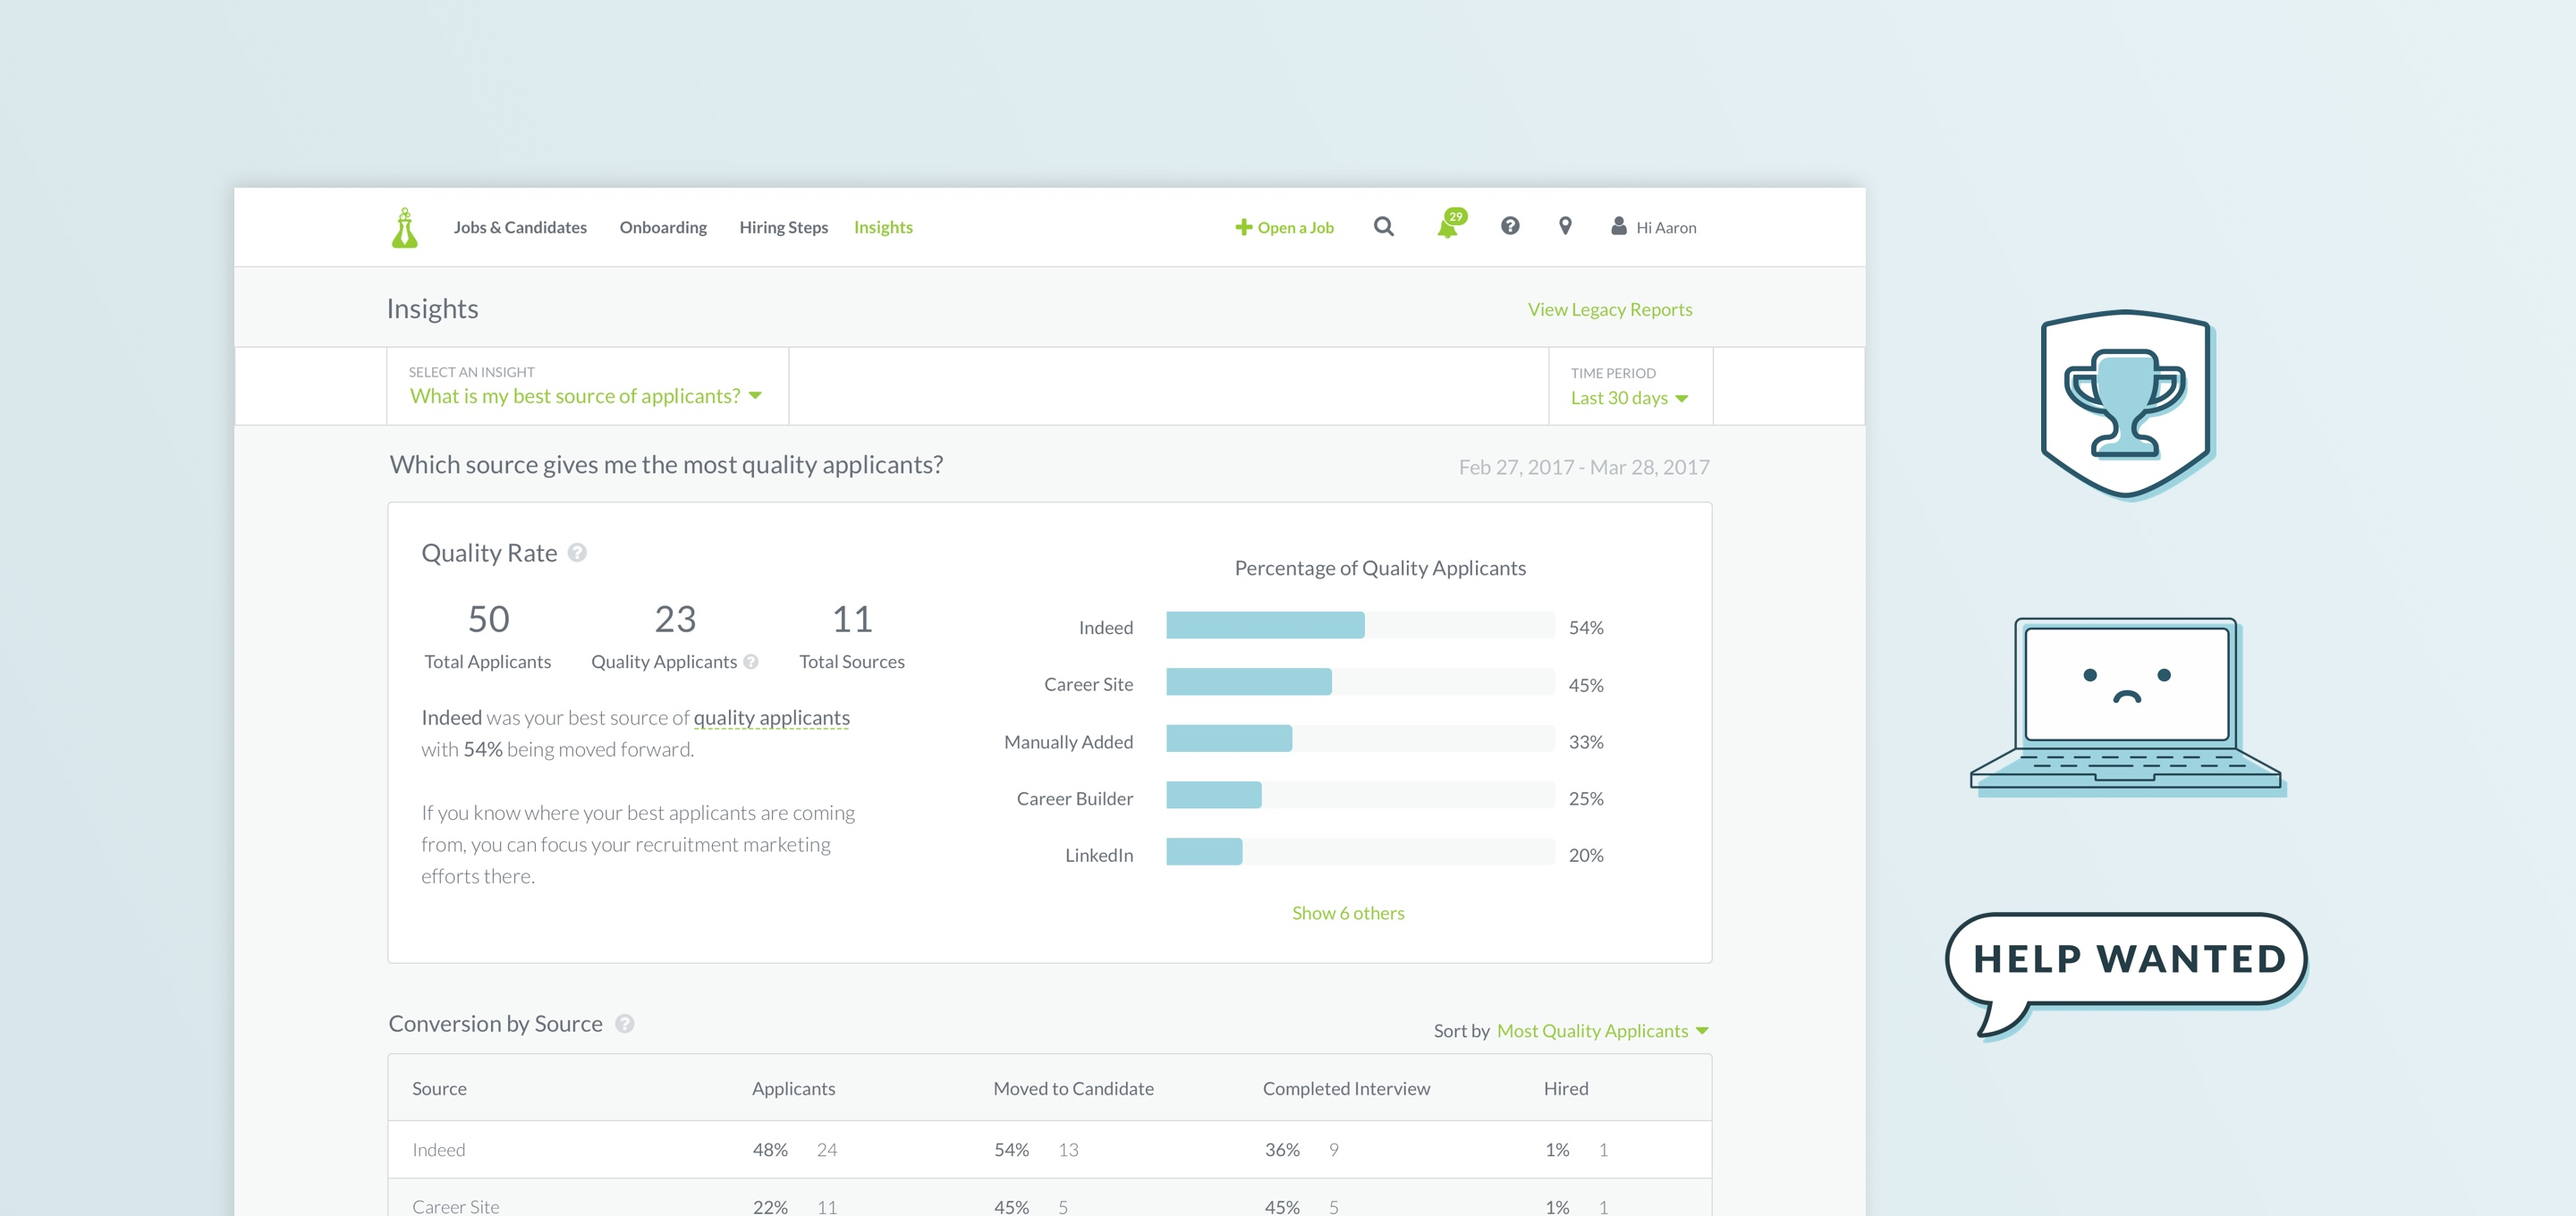
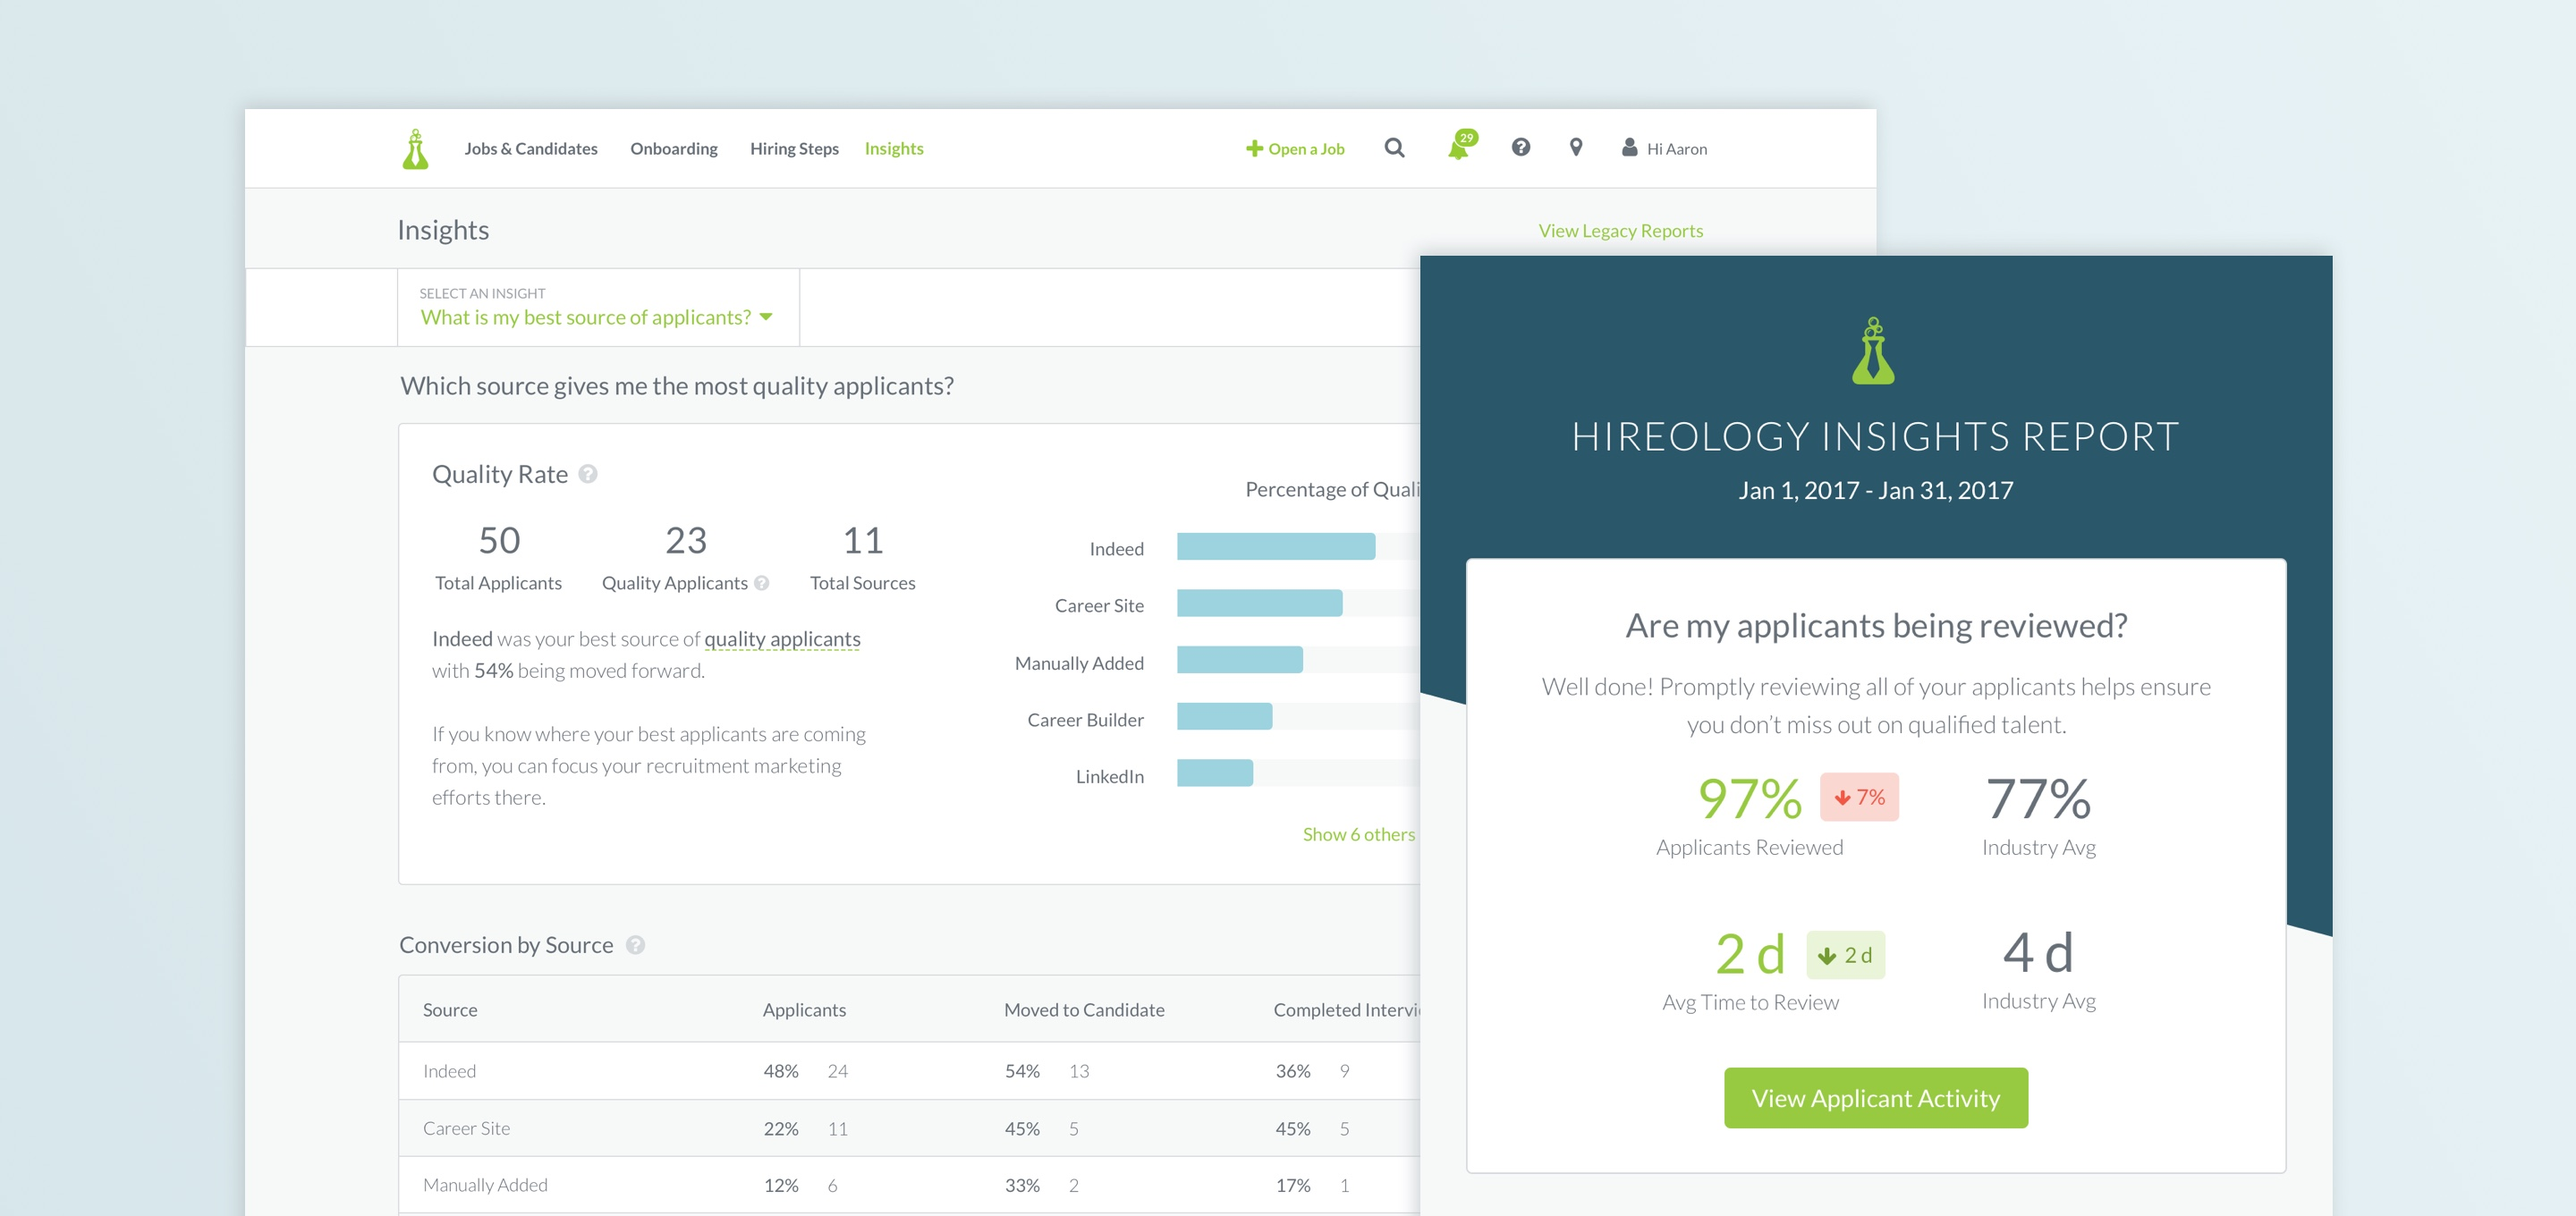
removing links temporarily

diff --git a/_layouts/home.html b/_layouts/home.html
@@ -46,7 +46,7 @@ layout: default
 
     <div class="project" data-aos="fade-up" data-aos-duration="1000" data-aos-easing="ease-out-quad">
 
-      <a href="{{ site.baseurl }}{% link work/hireology/index.html %}">
+      <!--<a href="{{ site.baseurl }}{% link work/hireology/index.html %}">-->
       
         <figure class="project-img">
           
@@ -62,14 +62,14 @@ layout: default
 
         </figure>
 
-      </a>
+      <!--</a>-->
 
     </div><!-- end proj-1 -->
 
 
     <div class="project" data-aos="fade-up" data-aos-duration="1000" data-aos-easing="ease-out-quad">
 
-      <a href="{{ site.baseurl }}{% link work/virtual-peaker/index.html %}">
+      <!--<a href="{{ site.baseurl }}{% link work/virtual-peaker/index.html %}">-->
       
         <figure class="project-img">
           
@@ -85,13 +85,13 @@ layout: default
 
         </figure>
 
-      </a>
+      <!--</a>-->
 
     </div><!-- end proj-2 -->
 
      <div class="project">
 
-      <a href="{{ site.baseurl }}{% link work/answer-automation/index.html %}">
+      <!--<a href="{{ site.baseurl }}{% link work/answer-automation/index.html %}">-->
       
         <figure class="project-img">
           
@@ -107,14 +107,14 @@ layout: default
 
         </figure>
 
-      </a>
+      <!--</a>-->
 
     </div><!-- end proj-3 -->
 
 
     <div class="project">
 
-      <a href="{{ site.baseurl }}{% link work/zip-digital/index.html %}">
+      <!--<a href="{{ site.baseurl }}{% link work/zip-digital/index.html %}">-->
       
         <figure class="project-img">
           
@@ -130,14 +130,14 @@ layout: default
 
         </figure>
 
-      </a>
+      <!--</a>-->
 
     </div><!-- end proj-4 -->
     
 
     <div class="project">
 
-      <a href="{{ site.baseurl }}{% link work/answer-automation/index.html %}">
+      <!--<a href="{{ site.baseurl }}{% link work/answer-automation/index.html %}">-->
       
         <figure class="project-img">
           
@@ -153,7 +153,7 @@ layout: default
 
         </figure>
 
-      </a>
+      <!--</a>-->
 
     </div><!-- end proj-5 -->
 

diff --git a/work/hireology/index.html b/work/hireology/index.html
@@ -2,5 +2,22 @@
 layout: page
 ---
 
+<div class="project-info">
 
-Hireology Insights
+	<h1>Insights</h1>
+
+	<h2>An actionable reporting interface</h2>
+
+	
+	<div class="project-deets">
+
+		<h5>Role: Lead Designer</h5>
+		<h5>Company: Hireology</h5>
+		<h5>Launched: May 2017</h5>
+		
+	</div>
+
+</div>
+
+
+<p>Hireology’s reporting section wasn’t providing enough value to our customers and suffered low usage. After our discovery process, we learned that a bloated dashboard of every single metric we track would have the same fate. Our users didn’t care have time to sort through a large quantity of data. They all had similar hiring questions that affected their businesses and we needed to help answer them. </p>
